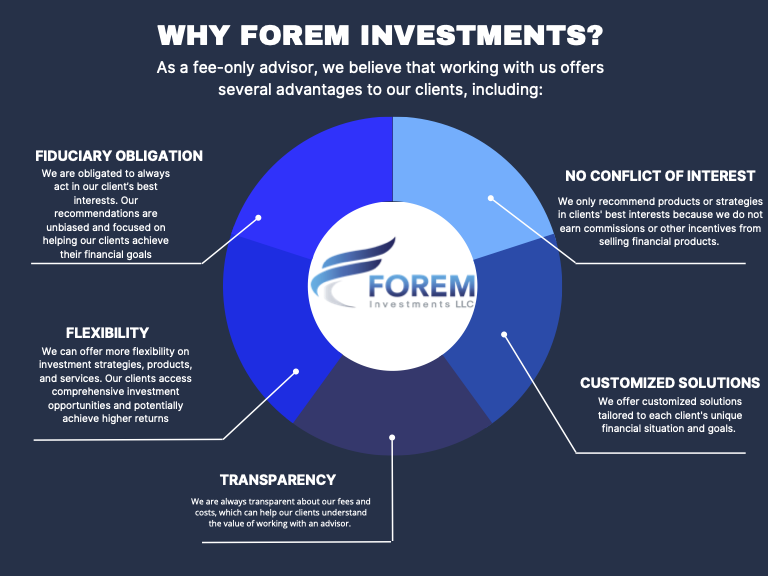
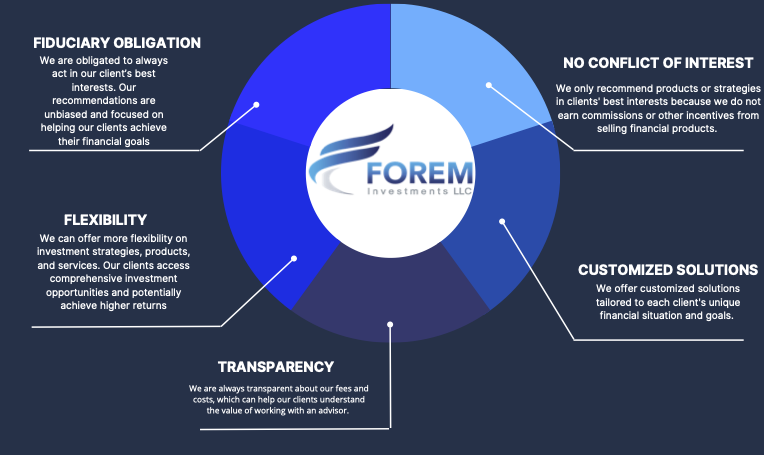
why forem changes, translate

diff --git a/src/utils/information.js b/src/utils/information.js
@@ -41,7 +41,7 @@ const home_data_ES = [
             id: "family-office",
             titleService: "Oficina Familiar",
             descrition: [`Experiencia: equipo de profesionales experimentados que pueden brindar a las familias un asesoramiento financiero integral.`, 
-            `Atención personalizada: adaptamos sus servicios a las necesidades específicas de cada familia.`, 
+            `Servicio personalizado: adaptamos sus servicios a las necesidades específicas de cada familia.`, 
             `Discreción: proporcionar a las familias la discreción que necesitan para administrar su patrimonio.`,
             `Acceso a oportunidades de inversión exclusivas que no están disponibles para el público en general.`],
             buttonText: 'Ver más',
@@ -71,7 +71,7 @@ const about_data_EN = [
         text2: [
             {
                 id: "bespoke",
-                photo: '/course2.jpg',
+                photo: '/bespoke.png',
                 title: "Bespoke Bond Portfolios for High-Net-Worth Individuals",
                 button: 'Learn more',
                 description: 'Our personalized financial advice service provides tailored recommendations to help you achieve your financial goals and secure your financial future.',
@@ -81,7 +81,7 @@ const about_data_EN = [
             },
             {
             id: "bond-portfolio-optimization",
-            photo: '/course1.jpg',
+            photo: '/bond.png',
             title: "Bond Portfolio Optimization",
             button: 'Learn more',
             description: 'Our service uses linear programing to find the best allocation of your investments for optimal returns.',
@@ -92,7 +92,7 @@ const about_data_EN = [
         
         {
             id: "ai-pond-portfolio",
-            photo: '/course3.jpg',
+            photo: '/ia.png',
             title: "AI Bond Portfolio Monitoring",
             button: 'Learn more',
             description: 'Our portfolio monitoring service utilizes AI to track investments and provide real-time alerts, ensuring your portfolio is continually optimized.',
@@ -106,17 +106,17 @@ const about_data_EN = [
             photo: "Freddy.png",
             name: "Freddy Martinez",
             position: 'President & CEO',
-            description: ["20 Years of experience as VP at Merrill Lynch Seven years at UBS as Senior VP and Portfolio Management.",
+            description: ["20 Years of experience as VP at Merrill Lynch. Seven years at UBS as Senior VP and Portfolio Management.",
         "Extensive and  up-to-date  experience  advising high-net-worth   families   and   individuals, institutions, and pension funds.",
         "Certified Financial Planner (CFP).",
-        "Certified Investment Management Analyst (CIMA) Mechanical engineer Universidad Simon Bolivar MBA of Wharton School of Business UPenn Master of Science in Materials Engineering at the University of Pennsylvania."]
+        "Certified Investment Management Analyst (CIMA). Mechanical engineer Universidad Simon Bolivar. MBA of Wharton School of Business. UPenn Master of Science in Materials Engineering at the University of Pennsylvania."]
         },
         {
             id: "bernardo-perez",
             photo: "bernardo.jpeg",
             name: "Bernardo Perez",
             position: 'Business Strategies Consultant',
-            description: ["25 years as a registered investment advisor Managed a broker-dealer for 30 years Senior Manager at McKinsey & Co, Inc.",
+            description: ["25 years as a registered investment advisor. Managed a broker-dealer for 30 years. Senior Manager at McKinsey & Co, Inc.",
         "Lead Consultant in strategy, finance, and operations in various industries such as Banking, Beer, Automotive, Oil, Petrochemicals, Food, Pulp & Paper, Cement, and others.",
         "MBA at Columbia Business School, NYC - major in finance and business operations",
         "Chemical Engineer - Universidad Simon Bolivar. Fluent in English, Spanish and French"]
@@ -126,41 +126,45 @@ const about_data_EN = [
             photo: "michele.jpg",
             name: "Michele Di Carlo",
             position: 'Investment Analyst/ Advisor',
-            description: ["Three years of Investment Analyst experience Registered Investment advisor Series 65 Worked on a startup financial modeling that raised over 2 million dollars.",
+            description: ["Three years of Investment Analyst experience. Registered Investment advisor Series 65. Worked on a startup financial modeling that raised over 2 million dollars.",
         "Graduated in Business administration with a Finance and Management major at the University of Miami with honors.",
         "Actively manages clients high net worth clients with millions of dollars on AUM.",
         "Fluent in English, Spanish, and Italian"]
-        }]
+        }],
+        title3: "Why Forem Investments?",
+        text4: "As a fee-only advisor, we believe that working with us offers several advantages to our clients, including:"
     }
 ]
 
 const about_data_ES = [
     {
         banner1: "Nos enfocamos en el mejor interés para ti y tu renta fija." ,
-        text2: [{
+        text2: [
+            {
+                id: "bond-portfolio-optimization",
+                photo: '/bespoke.png',
+                title: "Carteras de bonos a medida para personas de alto patrimonio neto",
+                button: 'Ver más',
+                description: 'Nuestro servicio de asesoramiento financiero personalizado brinda recomendaciones personalizadas para ayudarlo a alcanzar sus objetivos financieros y asegurar su futuro financiero.',
+                description2: "Mediante una herramienta avanzada que tiene en cuenta diversos datos y considera una amplia gama de factores, podemos seleccionar emisores de bonos y valores para su cartera utilizando una de las herramientas más avanzadas a disposición de los inversores.",
+                photos: ['bespoke.png']     
+            },
+            {
             id: "bespoke",
-            photo: '/course1.jpg',
+            photo: '/bond.png',
             title: "Optimización de la cartera de bonos",
             button: 'Ver más',
             description: 'Nuestro servicio utiliza programación lineal para encontrar la mejor asignación de sus inversiones para obtener rendimientos óptimos.',
             description2: "Utilizando datos en tiempo real de Refinitiv podemos ver y supervisar su cartera, desde los datos más básicos hasta métricas complejas que nos permiten tomar decisiones basadas en datos actuales y relevantes para mantener la cartera al día con sus objetivos.",
-            photos: ['bespoke.png'] 
+            photos: ['bond1.png','bond2.png', 'bond3.png']    
         },
-        {
-            id: "bond-portfolio-optimization",
-            photo: '/course2.jpg',
-            title: "Carteras de bonos a medida para personas de alto patrimonio neto",
-            button: 'Ver más',
-            description: 'Nuestro servicio de asesoramiento financiero personalizado brinda recomendaciones personalizadas para ayudarlo a alcanzar sus objetivos financieros y asegurar su futuro financiero.',
-            description2: "Mediante una herramienta avanzada que tiene en cuenta diversos datos y considera una amplia gama de factores, podemos seleccionar emisores de bonos y valores para su cartera utilizando una de las herramientas más avanzadas a disposición de los inversores.",
-            photos: ['bond1.png','bond2.png', 'bond3.png']     
-        },
+        
         {
             id: "ai-pond-portfolio",
-            photo: '/course3.jpg',
-            title: "Monitoreo de la cartera de bonos Al",
+            photo: '/ia.png',
+            title: "Monitoreo de la cartera de bonos IA",
             button: 'Ver más',
-            description: 'Nuestro servicio de monitoreo de cartera utiliza Al para rastrear inversiones y proporcionar alertas en tiempo real, lo que garantiza que su cartera se optimice continuamente.',
+            description: 'Nuestro servicio de monitoreo de cartera utiliza IA para rastrear inversiones y proporcionar alertas en tiempo real, lo que garantiza que su cartera se optimice continuamente.',
             description2: "Gracias a una de las herramientas de IA más avanzadas del sector, podemos disponer de información sobre emisores y su situación financiera. Con esta herramienta podemos tomar decisiones sobre qué bono comprar o vender, debido a una mejora o rebaja de la salud financiera, utilizando datos históricos que se utilizaron para construir un modelo de IA que predice la probabilidad de cambio en la clasificación de la mayoría de los actores del mercado." ,
             photos: ['ai.png']          
             
@@ -172,17 +176,17 @@ const about_data_ES = [
             photo: "Freddy.png",
             name: "Freddy Martinez",
             position: 'Presidente & CEO',
-            description: ["20 años de experiencia como VP en Merrill Lynch Siete años en UBS como Senior VP y Portfolio Management.",
+            description: ["20 años de experiencia como VP en Merrill Lynch, siete años en UBS como Senior VP y Portfolio Management.",
         "Amplia y actualizada experiencia asesorando a familias y particulares con grandes patrimonios, instituciones y fondos de pensiones.",
         "Planificador Financiero Certificado (CFP).",
-        "Certified Investment Management Analyst (CIMA) Ingeniero mecánico Universidad Simón Bolívar MBA de Wharton School of Business UPenn Master en Ingeniería de Materiales de la Universidad de Pensilvania."]
+        "Certified Investment Management Analyst (CIMA). Ingeniero mecánico Universidad Simón Bolívar. MBA de Wharton School of Business. UPenn Master en Ingeniería de Materiales de la Universidad de Pensilvania."]
         },
         {
             id: "bernardo-perez",
             photo: "bernardo.png",
             name: "Bernardo Perez",
             position: 'Consultor de estrategias empresariales',
-            description: ["25 años como asesor de inversiones registrado Gestionó un corredor de bolsa durante 30 años Senior Manager en McKinsey & Co, Inc.",
+            description: ["25 años como asesor de inversiones registrado. Gestionó un corredor de bolsa durante 30 años. Senior Manager en McKinsey & Co, Inc.",
         "Consultor principal en estrategia, finanzas y operaciones en diversos sectores como banca, cerveza, automoción, petróleo, petroquímica, alimentación, pasta y papel, cemento y otros.",
         "MBA en la Columbia Business School, NYC - especialización en finanzas y operaciones comerciales",
         "Ingeniero Químico - Universidad Simón Bolívar. Dominio del inglés, español y francés."]
@@ -192,11 +196,13 @@ const about_data_ES = [
             photo: "michele.png",
             name: "Michele Di Carlo",
             position: 'Analista/asesor de inversiones',
-            description: ["Tres años de experiencia como Analista de Inversiones Asesor de Inversiones Registrado Serie 65 Trabajó en una startup de modelado financiero que recaudó más de 2 millones de dólares.",
+            description: ["Tres años de experiencia como Analista de Inversiones. Asesor de Inversiones Registrado Serie 65. Trabajó en una startup de modelado financiero que recaudó más de 2 millones de dólares.",
         "Licenciado en Administración de Empresas con especialización en Finanzas y Gestión por la Universidad de Miami con matrícula de honor.",
         "Gestiona activamente clientes de alto patrimonio con millones de dólares en AUM.",
         "Dominio del inglés, el español y el italiano."]
-        }]
+        }],
+        title3: "Por qué Forem Investments?",
+        text4: "Como asesores de honorarios, creemos que trabajar con nosotros ofrece varias ventajas a nuestros clientes, que incluyen:"
     }
 ]
 

diff --git a/src/components/WhyForem/WhyForemView.js b/src/components/WhyForem/WhyForemView.js
@@ -47,10 +47,12 @@ function WhyForemView(props) {
           {info.text2.map((service) => (
           <Grid item md={4} xs={6} >
               <Stack direction='column' 
+              sx={{display: 'flex', alignItems: !isDesktop && 'center'}}
               >
                 <Box sx={{display: 'flex', justifyContent: !isDesktop && 'center', width: '100%'}}>
                   <img alt="img" src={`${service.photo}`} 
-                  style={{width: isDesktop ? 320 : '80%', borderRadius: 5}}/>
+                  style={{width: isDesktop ? 370 : '85%', borderRadius: 5, 
+                  height: isDesktop ? '290px' : '240px'}}/>
                 </Box>
                   <Typography variant='h6' 
                   sx={{color: '#fff', 
@@ -118,13 +120,23 @@ function WhyForemView(props) {
           ))}
         </Grid>
       </Box>
-      <Box 
+      <Stack
+      direction={"column"} 
       sx={{
       display: 'flex', 
       justifyContent: 'center', 
-      backgroundColor: '#192E47'}}>
-        <img src='/whyforem.png' width={!isDesktop && 440} />
-      </Box>
+      backgroundColor: '#192E47', 
+      alignItems: 'center', padding: 2}}>
+        <Typography variant={isDesktop ? 'h3' : 'h4'} color={"#fff"} 
+        sx={{textAlign: 'center', paddingTop: 1}}>
+          {info.title3}
+        </Typography>
+        <Typography variant='body1' color={"#fff"} 
+        sx={{textAlign: 'center', paddingTop: 2, paddingBottom: 4}}>
+          {info.text4}
+        </Typography>
+        <img src='/whyforem.png' width={isDesktop ? 700: 400} />
+      </Stack>
       </>
     ))}
     </>

diff --git a/src/components/WhyForem/AboutView.js b/src/components/WhyForem/AboutView.js
@@ -48,18 +48,19 @@ function AboutView(props) {
       </Stack>
       <Box sx={{display: 'flex', justifyContent: 'center'}}>
       <Stack 
-      direction={(about_Data?.photos.length > 1 && isDesktop) ? "row" : 'column'} 
+      direction={isDesktop ? "row" : 'column'} 
       spacing={2} 
       sx={{padding: 2, alignItems: 'center', maxWidth:'lg'}}>
         <Stack direction={'column'} sx={{display: 'grid'}}>
         {about_Data?.photos.map((photo)=> (
           <img alt="img" 
           src={`/${photo} `}
-          style={{borderRadius: '10px'}} 
+          style={{borderRadius: '5px', paddingBottom: '10px'}} 
           width={ isDesktop ? 400 : 300} />
         ))}
         </Stack>
-        <Typography variant='body1' sx={{color: '#000', textAlign: 'center'}}>
+        <Typography variant='body1' 
+        sx={{color: '#000', textAlign: !isDesktop && 'center'}}>
         {`${about_Data?.description2}`}
         </Typography>
         
